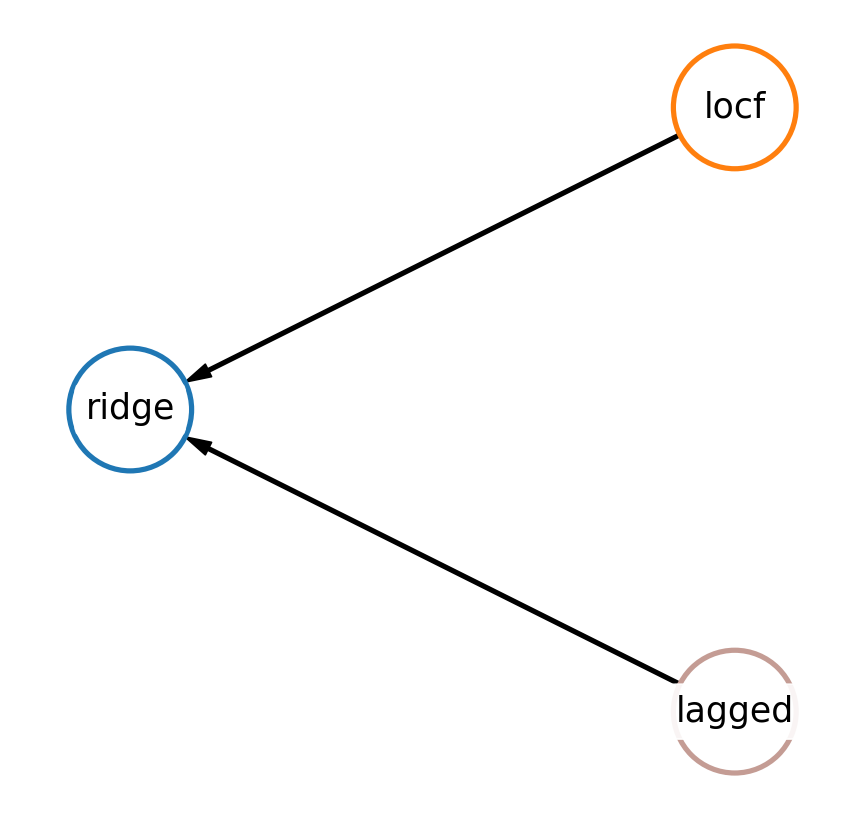
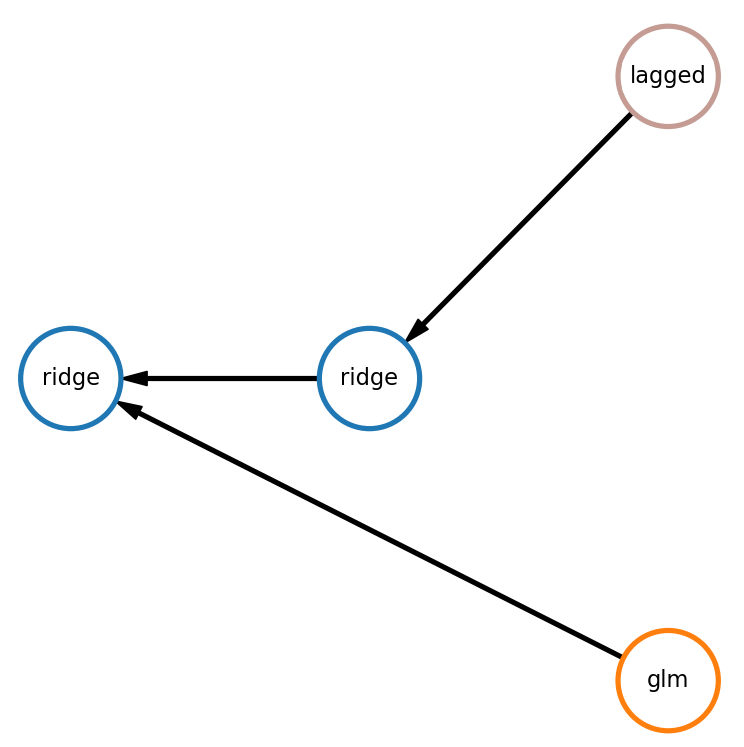
Change pipeline in example

diff --git a/docs/source/basics/ts_forecasting.rst b/docs/source/basics/ts_forecasting.rst
@@ -83,7 +83,6 @@ Examples of time-series pipelines can be found `here`_.
 
 .. code-block:: python
 
-    import numpy as np
     from fedot.api.main import Fedot
     from fedot.core.data.data import InputData
     from fedot.core.data.data_split import train_test_data_setup
@@ -91,10 +90,8 @@ Examples of time-series pipelines can be found `here`_.
     from fedot.core.repository.tasks import Task, TaskTypesEnum, TsForecastingParams
 
     pipeline = PipelineBuilder() \
-        .add_sequence('locf', branch_idx=0) \
-        .add_sequence('lagged', branch_idx=1) \
-        .join_branches('ridge') \
-        .to_pipeline()
+        .add_sequence('lagged', 'ridge', branch_idx=0) \
+        .add_sequence('glm', branch_idx=1).join_branches('ridge').to_pipeline()
 
     task = Task(TaskTypesEnum.ts_forecasting,
                 TsForecastingParams(forecast_length=10))
@@ -136,6 +133,8 @@ Pipeline from the example:
 
 .. |ts_pipeline| image:: img_utilities/ts_pipeline.png
    :width: 80%
+
+In this pipeline in the first branch
 
 Time-series validation
 ~~~~~~~~~~~~~~~~~~~~~~
@@ -179,7 +178,7 @@ Train test split
 To split InputData use ``train_test_data_setup`` method.
 ``split_ratio`` and ``shuffle_flag`` are ignored for time-series forecasting.
 
-.. automethod:: fedot.core.data.data_split.train_test_data_setup
+.. autofunction:: fedot.core.data.data_split.train_test_data_setup
 
 The method uses ``forecast_length`` specified in the ``data.task``. The resulting split:
 
